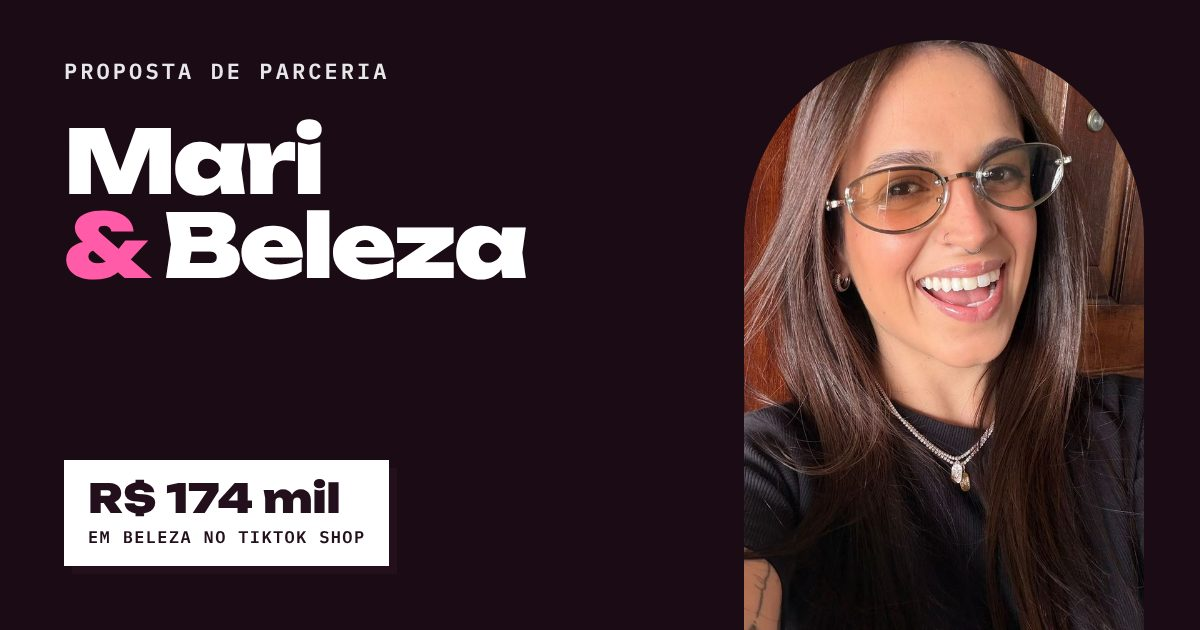
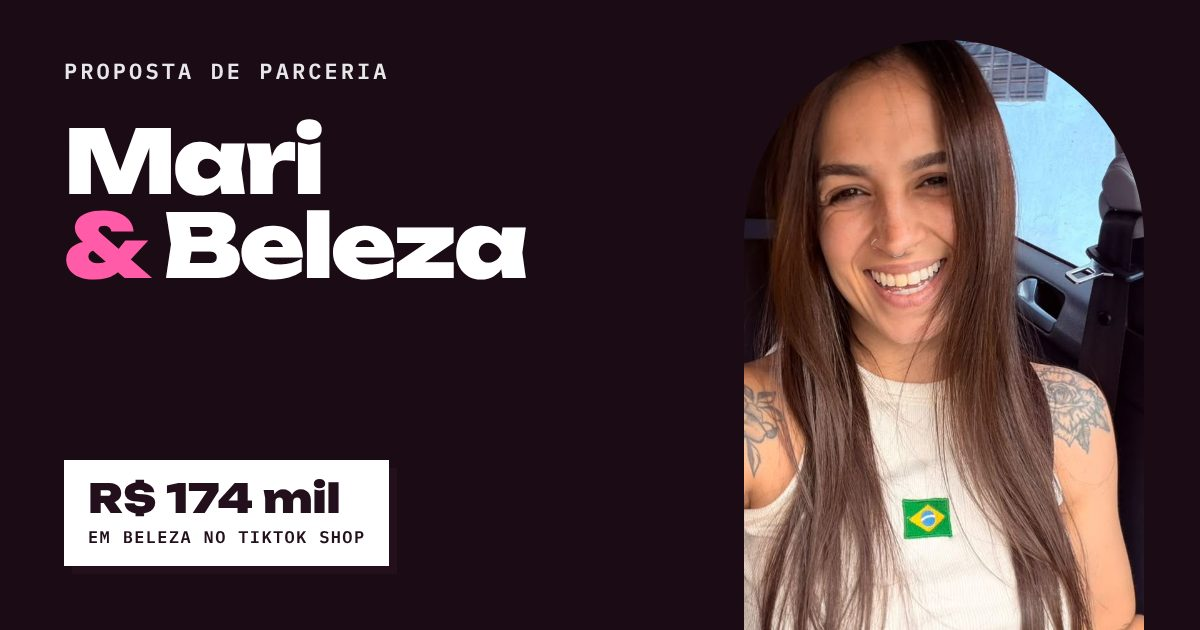
Legendas alinhadas às fotos nas páginas de categoria
Claude-Session: https://claude.ai/code/session_01VE4Bs72BjS1UrKcxBamVdE

Changed region(s): [[0.6167, 0.0603, 0.9558, 1.0]]

diff --git a/beleza/index.html b/beleza/index.html
@@ -67,7 +67,7 @@ section{padding-block:clamp(56px,9vw,104px)}
 .btn.main{background:var(--hero-btn);color:#fff}
 .btn.line{border-color:#fff;color:#fff}
 .hero-photo{position:relative;align-self:stretch;min-height:420px}
-.hero-photo img{position:absolute;inset:0;width:100%;height:100%;object-fit:cover;object-position:50% 30%;border-radius:220px 220px 0 0;display:block}
+.hero-photo img{position:absolute;inset:0;width:100%;height:100%;object-fit:cover;object-position:50% 8%;border-radius:220px 220px 0 0;display:block}
 .motif{position:absolute;left:-80px;right:-80px;top:-34px;bottom:-6px;color:var(--hero-accent);opacity:.4;pointer-events:none;z-index:0}
 .motif svg{width:100%;height:100%;display:block}
 .hero-photo img{z-index:1}
@@ -219,7 +219,7 @@ footer{padding-block:28px;color:var(--muted);font-size:.8rem;line-height:1.6}
 .site-nav a:focus-visible{outline:3px solid #FF5BA8;outline-offset:2px}
 .site-nav .cta{padding:8px 14px;border-radius:999px;background:#E0117A;color:#fff;font-family:"Instrument Sans","Segoe UI",system-ui,sans-serif;font-weight:700;font-size:.88rem;text-decoration:none;white-space:nowrap}
 @media (max-width:640px){.site-nav{position:static}.site-nav .cta{display:none}.site-nav .nav-in{flex-wrap:wrap;justify-content:center;gap:4px;padding-block:10px}.site-nav .nav-brand{width:100%;text-align:center;font-size:.92rem;padding-bottom:4px}.site-nav .links{flex:0 1 auto;flex-wrap:wrap;justify-content:center;overflow:visible;padding-block:0}.site-nav .links a{padding:6px 11px;font-size:.86rem}}
-.badge{top:5%}@media (max-width:560px){.badge{top:4%}}
+.badge{top:3%;left:auto;right:-18px}@media (max-width:560px){.badge{top:4%;left:auto;right:10px}}
 </style>
 <style>html,body{margin:0}img{max-width:100%}</style>
 </head>
@@ -235,7 +235,7 @@ footer{padding-block:28px;color:var(--muted);font-size:.8rem;line-height:1.6}
         <span class="cat-chip">Beleza</span>
         <h1 class="pair">Mari <span class="x">&amp;</span><br>a sua marca</h1>
         <p class="thesis">Beleza testada <b>na frente de todo mundo.</b></p>
-        <p class="hero-note">Leave-in, body splash, modelador: em beleza, a Mari vende o resultado, mostrado no cabelo e na pele dela, sem filtro de propaganda.</p>
+        <p class="hero-note">Cabelo solto, luz do dia, câmera do celular: em beleza, a Mari vende o resultado mostrado nela mesma, sem filtro de propaganda. Leave-in, body splash e modelador estão entre os campeões.</p>
         <div class="hero-cta">
           <a class="btn main" href="https://wa.me/5531996293489?text=Ol%C3%A1%2C%20Mari%21%20Vi%20a%20sua%20proposta%20de%20beleza%20e%20quero%20conversar." target="_blank" rel="noopener">Conversar com a Mari</a>
           <a class="btn line" href="#roteiro">Ver o roteiro do vídeo 1</a>
@@ -243,7 +243,7 @@ footer{padding-block:28px;color:var(--muted);font-size:.8rem;line-height:1.6}
       </div>
       <div class="hero-photo">
         <div class="motif" aria-hidden="true"><svg viewBox="0 0 600 640" preserveAspectRatio="xMidYMid meet"><g fill="currentColor"><circle cx="70" cy="150" r="38"/><circle cx="540" cy="110" r="24"/><circle cx="566" cy="420" r="44"/><circle cx="44" cy="500" r="28"/><circle cx="300" cy="26" r="14"/><circle cx="500" cy="600" r="18"/><circle cx="120" cy="330" r="10"/></g></svg></div>
-        <img src="../foto-oculos.jpg" alt="Selfie da Mari sorrindo, de óculos e cabelo solto e brilhante">
+        <img src="../foto-cabelo.jpg" alt="Selfie da Mari no carro, sorrindo, com o cabelo longo e brilhante">
         <div class="badge" aria-label="R$ 174 mil vendidos em beleza no TikTok Shop"><span><strong>R$ 174 mil</strong>em beleza<br>no TikTok Shop</span></div>
       </div>
     </div>
@@ -295,7 +295,7 @@ footer{padding-block:28px;color:var(--muted);font-size:.8rem;line-height:1.6}
       <h2 class="h2">Antes e depois, sem filtro</h2>
       <p class="lead">Antes de fechar, a sua marca já vê o que vai ao ar. Um vídeo de 45 segundos, segundo a segundo.</p>
       <div class="script-grid">
-        <div class="phone" aria-hidden="true"><img class="ph-img" src="../foto-cabelo.jpg" alt="" style="object-position:50% 35%"><div class="ph-shade"></div><span class="len">0:45</span><p class="cap"><b>Antes e depois, sem filtro</b></p><div class="rail" aria-hidden="true"><span><svg viewBox="0 0 24 24" fill="none" stroke="currentColor" stroke-width="1.8" stroke-linecap="round" stroke-linejoin="round" aria-hidden="true"><path d="M12 20s-7.5-4.6-7.5-10.2A4.2 4.2 0 0 1 12 7.2a4.2 4.2 0 0 1 7.5 2.6C19.5 15.4 12 20 12 20z"/></svg></span><span><svg viewBox="0 0 24 24" fill="none" stroke="currentColor" stroke-width="1.8" stroke-linecap="round" stroke-linejoin="round" aria-hidden="true"><path d="M4 5h16v11H9.5L4 20V5z"/></svg></span><span><svg viewBox="0 0 24 24" fill="none" stroke="currentColor" stroke-width="1.8" stroke-linecap="round" stroke-linejoin="round" aria-hidden="true"><path d="M14 4.5l7 6.5-7 6.5V14c-6 0-9 1.8-11 5 .8-6 4-10 11-10.8V4.5z"/></svg></span></div><div class="meta"><b>@soumaripaiva</b><span>Mesma luz, mesmo celular, sem filtro ✨</span><div class="pcard"><span class="pic"><svg viewBox="0 0 24 24" fill="none" stroke="currentColor" stroke-width="1.8" stroke-linecap="round" stroke-linejoin="round" aria-hidden="true"><rect x="7" y="9.5" width="10" height="11.5" rx="2.2"/><path d="M10 9.5V6.5h4v3M14 5h2.5M18.5 4.5h1.5M18.5 7.5h1.5"/></svg></span><span><b>Seu produto aqui</b><small>Toque para ver no carrinho</small></span></div></div></div>
+        <div class="phone" aria-hidden="true"><img class="ph-img" src="../foto-carro.jpg" alt="" style="object-position:50% 35%"><div class="ph-shade"></div><span class="len">0:45</span><p class="cap"><b>Antes e depois, sem filtro</b></p><div class="rail" aria-hidden="true"><span><svg viewBox="0 0 24 24" fill="none" stroke="currentColor" stroke-width="1.8" stroke-linecap="round" stroke-linejoin="round" aria-hidden="true"><path d="M12 20s-7.5-4.6-7.5-10.2A4.2 4.2 0 0 1 12 7.2a4.2 4.2 0 0 1 7.5 2.6C19.5 15.4 12 20 12 20z"/></svg></span><span><svg viewBox="0 0 24 24" fill="none" stroke="currentColor" stroke-width="1.8" stroke-linecap="round" stroke-linejoin="round" aria-hidden="true"><path d="M4 5h16v11H9.5L4 20V5z"/></svg></span><span><svg viewBox="0 0 24 24" fill="none" stroke="currentColor" stroke-width="1.8" stroke-linecap="round" stroke-linejoin="round" aria-hidden="true"><path d="M14 4.5l7 6.5-7 6.5V14c-6 0-9 1.8-11 5 .8-6 4-10 11-10.8V4.5z"/></svg></span></div><div class="meta"><b>@soumaripaiva</b><span>Luz do carro, câmera do celular, zero filtro ✨</span><div class="pcard"><span class="pic"><svg viewBox="0 0 24 24" fill="none" stroke="currentColor" stroke-width="1.8" stroke-linecap="round" stroke-linejoin="round" aria-hidden="true"><rect x="7" y="9.5" width="10" height="11.5" rx="2.2"/><path d="M10 9.5V6.5h4v3M14 5h2.5M18.5 4.5h1.5M18.5 7.5h1.5"/></svg></span><span><b>Seu produto aqui</b><small>Toque para ver no carrinho</small></span></div></div></div>
         <div>
           <div class="beats"><div class="beat"><span class="t">0:00–0:03<small>Gancho</small></span><div><b>A Mari aponta para o cabelo</b><q>Mesma luz, mesmo celular, sem filtro.</q><p class="scene">Texto na tela. O vídeo já começa no antes.</p></div></div><div class="beat"><span class="t">0:03–0:12<small>Antes</small></span><div><b>O problema de verdade</b><q>Olha como meu cabelo acorda.</q><p class="scene">Close honesto no antes, sem esconder nada.</p></div></div><div class="beat"><span class="t">0:12–0:30<small>Aplicação</small></span><div><b>O produto em uso</b><q>Pouquinho, só nas pontas, e espalho assim.</q><p class="scene">Passo a passo rápido, do jeito que a cliente faria em casa.</p></div></div><div class="beat"><span class="t">0:30–0:40<small>Depois</small></span><div><b>O resultado e a reação</b><q>Gente, olha isso.</q><p class="scene">O depois, na mesma luz, com a reação sincera da Mari.</p></div></div><div class="beat"><span class="t">0:40–0:45<small>Fecho</small></span><div><b>Chamada para o carrinho</b><q>Tá no carrinho aqui embaixo.</q><p class="scene">Produto em destaque e link do TikTok Shop.</p></div></div></div>
           <p class="script-note">Roteiro de referência. A versão final é ajustada com a marca, conforme o produto.</p>

diff --git a/moda/index.html b/moda/index.html
@@ -5,7 +5,7 @@
 <meta name="viewport" content="width=device-width,initial-scale=1,viewport-fit=cover">
 <meta name="robots" content="noindex">
 <meta property="og:title" content="Mari Paiva · Proposta de moda">
-<meta property="og:description" content="Moda que se vende no provador ao vivo.">
+<meta property="og:description" content="Moda que chega, abre e vende ao vivo.">
 <meta property="og:type" content="website">
 <meta property="og:site_name" content="Mari Paiva">
 <meta property="og:locale" content="pt_BR">
@@ -233,8 +233,8 @@ footer{padding-block:28px;color:var(--muted);font-size:.8rem;line-height:1.6}
       <div class="hero-copy">
         <span class="cat-chip">Moda</span>
         <h1 class="pair">Mari <span class="x">&amp;</span><br>a sua marca</h1>
-        <p class="thesis">Moda que se vende <b>no provador ao vivo.</b></p>
-        <p class="hero-note">Bolsa, tênis, calça: em moda, a Mari vende mais quando o público vê a peça no corpo, ao vivo, e pode perguntar tudo antes de comprar.</p>
+        <p class="thesis">Moda que chega, <b>abre e vende ao vivo.</b></p>
+        <p class="hero-note">Os pacotes chegam, a Mari abre, veste e mostra o caimento ao vivo. Em moda, o público compra quando vê a peça no corpo e pode perguntar tudo antes.</p>
         <div class="hero-cta">
           <a class="btn main" href="https://wa.me/5531996293489?text=Ol%C3%A1%2C%20Mari%21%20Vi%20a%20sua%20proposta%20de%20moda%20e%20quero%20conversar." target="_blank" rel="noopener">Conversar com a Mari</a>
           <a class="btn line" href="#roteiro">Ver o roteiro do vídeo 1</a>
@@ -242,7 +242,7 @@ footer{padding-block:28px;color:var(--muted);font-size:.8rem;line-height:1.6}
       </div>
       <div class="hero-photo">
         <div class="motif" aria-hidden="true"><svg viewBox="0 0 600 640" preserveAspectRatio="xMidYMid meet"><g fill="none" stroke="currentColor" stroke-linecap="round"><path d="M66 640V300A234 234 0 0 1 534 300V640" stroke-width="4" stroke-dasharray="14 10"/><path d="M36 640V292A264 264 0 0 1 564 292V640" stroke-width="3" stroke-dasharray="3 12"/></g></svg></div>
-        <img src="../foto-recebidos.jpg" alt="Mari Paiva sorrindo no meio de vários pacotes de produtos recebidos">
+        <img src="../foto-recebidos.jpg" alt="Mari Paiva sorrindo no meio de vários pacotes recebidos, prontos para abrir">
         <div class="badge" aria-label="R$ 183 mil vendidos em moda no TikTok Shop"><span><strong>R$ 183 mil</strong>em moda<br>no TikTok Shop</span></div>
       </div>
     </div>
@@ -294,7 +294,7 @@ footer{padding-block:28px;color:var(--muted);font-size:.8rem;line-height:1.6}
       <h2 class="h2">Uma peça, três looks</h2>
       <p class="lead">Antes de fechar, a sua marca já vê o que vai ao ar. Um vídeo de 45 segundos, segundo a segundo.</p>
       <div class="script-grid">
-        <div class="phone" aria-hidden="true"><img class="ph-img" src="../foto-look.jpg" alt="" style="object-position:50% 40%"><div class="ph-shade"></div><span class="len">0:45</span><p class="cap"><b>Uma peça, três looks</b></p><div class="rail" aria-hidden="true"><span><svg viewBox="0 0 24 24" fill="none" stroke="currentColor" stroke-width="1.8" stroke-linecap="round" stroke-linejoin="round" aria-hidden="true"><path d="M12 20s-7.5-4.6-7.5-10.2A4.2 4.2 0 0 1 12 7.2a4.2 4.2 0 0 1 7.5 2.6C19.5 15.4 12 20 12 20z"/></svg></span><span><svg viewBox="0 0 24 24" fill="none" stroke="currentColor" stroke-width="1.8" stroke-linecap="round" stroke-linejoin="round" aria-hidden="true"><path d="M4 5h16v11H9.5L4 20V5z"/></svg></span><span><svg viewBox="0 0 24 24" fill="none" stroke="currentColor" stroke-width="1.8" stroke-linecap="round" stroke-linejoin="round" aria-hidden="true"><path d="M14 4.5l7 6.5-7 6.5V14c-6 0-9 1.8-11 5 .8-6 4-10 11-10.8V4.5z"/></svg></span></div><div class="meta"><b>@soumaripaiva</b><span>Uma peça só, a semana inteira 👗</span><div class="pcard"><span class="pic"><svg viewBox="0 0 24 24" fill="none" stroke="currentColor" stroke-width="1.8" stroke-linecap="round" stroke-linejoin="round" aria-hidden="true"><path d="M5 8.5h14l-1.2 12H6.2L5 8.5z"/><path d="M9 8.5V6.5a3 3 0 0 1 6 0v2"/></svg></span><span><b>Seu produto aqui</b><small>Toque para ver no carrinho</small></span></div></div></div>
+        <div class="phone" aria-hidden="true"><img class="ph-img" src="../foto-look.jpg" alt="" style="object-position:50% 40%"><div class="ph-shade"></div><span class="len">0:45</span><p class="cap"><b>Uma peça, três looks</b></p><div class="rail" aria-hidden="true"><span><svg viewBox="0 0 24 24" fill="none" stroke="currentColor" stroke-width="1.8" stroke-linecap="round" stroke-linejoin="round" aria-hidden="true"><path d="M12 20s-7.5-4.6-7.5-10.2A4.2 4.2 0 0 1 12 7.2a4.2 4.2 0 0 1 7.5 2.6C19.5 15.4 12 20 12 20z"/></svg></span><span><svg viewBox="0 0 24 24" fill="none" stroke="currentColor" stroke-width="1.8" stroke-linecap="round" stroke-linejoin="round" aria-hidden="true"><path d="M4 5h16v11H9.5L4 20V5z"/></svg></span><span><svg viewBox="0 0 24 24" fill="none" stroke="currentColor" stroke-width="1.8" stroke-linecap="round" stroke-linejoin="round" aria-hidden="true"><path d="M14 4.5l7 6.5-7 6.5V14c-6 0-9 1.8-11 5 .8-6 4-10 11-10.8V4.5z"/></svg></span></div><div class="meta"><b>@soumaripaiva</b><span>Look 1 de 3: jeans, tênis e a peça que fecha tudo 👟</span><div class="pcard"><span class="pic"><svg viewBox="0 0 24 24" fill="none" stroke="currentColor" stroke-width="1.8" stroke-linecap="round" stroke-linejoin="round" aria-hidden="true"><path d="M5 8.5h14l-1.2 12H6.2L5 8.5z"/><path d="M9 8.5V6.5a3 3 0 0 1 6 0v2"/></svg></span><span><b>Seu produto aqui</b><small>Toque para ver no carrinho</small></span></div></div></div>
         <div>
           <div class="beats"><div class="beat"><span class="t">0:00–0:03<small>Gancho</small></span><div><b>A Mari segura a peça na frente da câmera</b><q>Comprei uma peça só e montei a semana inteira.</q><p class="scene">Texto grande na tela. Sem vinheta, sem logo.</p></div></div><div class="beat"><span class="t">0:03–0:15<small>Look 1</small></span><div><b>Para o trabalho</b><q>Segunda-feira, reunião: assim.</q><p class="scene">Transição rápida com a peça vestida, mostrando o caimento.</p></div></div><div class="beat"><span class="t">0:15–0:27<small>Look 2</small></span><div><b>Para o passeio</b><q>Passeio com a família: troquei só o tênis.</q><p class="scene">A mesma peça em outra combinação, em ambiente real.</p></div></div><div class="beat"><span class="t">0:27–0:38<small>Look 3</small></span><div><b>Para o fim de semana</b><q>E no sábado ela ainda vira isso.</q><p class="scene">O look mais surpreendente fica por último.</p></div></div><div class="beat"><span class="t">0:38–0:45<small>Fecho</small></span><div><b>Tamanhos e cores</b><q>Tem em várias cores, tá no carrinho.</q><p class="scene">Close no detalhe da peça e link do TikTok Shop.</p></div></div></div>
           <p class="script-note">Roteiro de referência. A versão final é ajustada com a marca, conforme o produto.</p>

diff --git a/tecnologia/index.html b/tecnologia/index.html
@@ -235,7 +235,7 @@ footer{padding-block:28px;color:var(--muted);font-size:.8rem;line-height:1.6}
         <span class="cat-chip">Tecnologia</span>
         <h1 class="pair">Mari <span class="x">&amp;</span><br>a sua marca</h1>
         <p class="thesis">Tecnologia explicada do jeito que <b>a gente entende e compra.</b></p>
-        <p class="hero-note">Smartwatch, fone, carregador: a Mari transforma ficha técnica em motivo para comprar. É a categoria que ela mais vende no TikTok Shop.</p>
+        <p class="hero-note">Smartwatch, fone, carregador: tecnologia é a categoria que a Mari mais vende no TikTok Shop. Na foto, ela no Matchmaking de Eletrônicos da plataforma, onde marcas e creators da categoria se encontram.</p>
         <div class="hero-cta">
           <a class="btn main" href="https://wa.me/5531996293489?text=Ol%C3%A1%2C%20Mari%21%20Vi%20a%20sua%20proposta%20de%20tecnologia%20e%20quero%20conversar." target="_blank" rel="noopener">Conversar com a Mari</a>
           <a class="btn line" href="#roteiro">Ver o roteiro do vídeo 1</a>
@@ -243,7 +243,7 @@ footer{padding-block:28px;color:var(--muted);font-size:.8rem;line-height:1.6}
       </div>
       <div class="hero-photo">
         <div class="motif" aria-hidden="true"><svg viewBox="0 0 600 640" preserveAspectRatio="xMidYMid meet"><g fill="none" stroke="currentColor"><circle cx="300" cy="330" r="250" stroke-width="3"/><circle cx="300" cy="330" r="285" stroke-width="3" stroke-dasharray="4 12"/><circle cx="300" cy="330" r="318" stroke-width="2"/></g></svg></div>
-        <img src="../foto-evento.jpg" alt="Mari Paiva num evento de eletrônicos do TikTok Shop">
+        <img src="../foto-evento.jpg" alt="Mari Paiva no Matchmaking de Eletrônicos do TikTok Shop, ao lado de fone, smartwatch e liquidificador">
         <div class="badge" aria-label="R$ 767 mil vendidos em tecnologia no TikTok Shop"><span><strong>R$ 767 mil</strong>em tecnologia<br>no TikTok Shop</span></div>
       </div>
     </div>
@@ -295,7 +295,7 @@ footer{padding-block:28px;color:var(--muted);font-size:.8rem;line-height:1.6}
       <h2 class="h2">Isso aqui resolveu meu dia</h2>
       <p class="lead">Antes de fechar, a sua marca já vê o que vai ao ar. Um vídeo de 45 segundos, segundo a segundo.</p>
       <div class="script-grid">
-        <div class="phone" aria-hidden="true"><img class="ph-img" src="../foto-neon.jpg" alt="" style="object-position:50% 40%"><div class="ph-shade"></div><span class="len">0:45</span><p class="cap"><b>Isso aqui resolveu meu dia</b></p><div class="rail" aria-hidden="true"><span><svg viewBox="0 0 24 24" fill="none" stroke="currentColor" stroke-width="1.8" stroke-linecap="round" stroke-linejoin="round" aria-hidden="true"><path d="M12 20s-7.5-4.6-7.5-10.2A4.2 4.2 0 0 1 12 7.2a4.2 4.2 0 0 1 7.5 2.6C19.5 15.4 12 20 12 20z"/></svg></span><span><svg viewBox="0 0 24 24" fill="none" stroke="currentColor" stroke-width="1.8" stroke-linecap="round" stroke-linejoin="round" aria-hidden="true"><path d="M4 5h16v11H9.5L4 20V5z"/></svg></span><span><svg viewBox="0 0 24 24" fill="none" stroke="currentColor" stroke-width="1.8" stroke-linecap="round" stroke-linejoin="round" aria-hidden="true"><path d="M14 4.5l7 6.5-7 6.5V14c-6 0-9 1.8-11 5 .8-6 4-10 11-10.8V4.5z"/></svg></span></div><div class="meta"><b>@soumaripaiva</b><span>O problema que eu nem sabia que tinha 🔋</span><div class="pcard"><span class="pic"><svg viewBox="0 0 24 24" fill="none" stroke="currentColor" stroke-width="1.8" stroke-linecap="round" stroke-linejoin="round" aria-hidden="true"><rect x="6.5" y="6" width="11" height="12" rx="3"/><path d="M9 6l1-3h4l1 3M9 18l1 3h4l1-3M12 9.5V12l1.8 1.2"/></svg></span><span><b>Seu produto aqui</b><small>Toque para ver no carrinho</small></span></div></div></div>
+        <div class="phone" aria-hidden="true"><img class="ph-img" src="../foto-neon.jpg" alt="" style="object-position:50% 40%"><div class="ph-shade"></div><span class="len">0:45</span><p class="cap"><b>Isso aqui resolveu meu dia</b></p><div class="rail" aria-hidden="true"><span><svg viewBox="0 0 24 24" fill="none" stroke="currentColor" stroke-width="1.8" stroke-linecap="round" stroke-linejoin="round" aria-hidden="true"><path d="M12 20s-7.5-4.6-7.5-10.2A4.2 4.2 0 0 1 12 7.2a4.2 4.2 0 0 1 7.5 2.6C19.5 15.4 12 20 12 20z"/></svg></span><span><svg viewBox="0 0 24 24" fill="none" stroke="currentColor" stroke-width="1.8" stroke-linecap="round" stroke-linejoin="round" aria-hidden="true"><path d="M4 5h16v11H9.5L4 20V5z"/></svg></span><span><svg viewBox="0 0 24 24" fill="none" stroke="currentColor" stroke-width="1.8" stroke-linecap="round" stroke-linejoin="round" aria-hidden="true"><path d="M14 4.5l7 6.5-7 6.5V14c-6 0-9 1.8-11 5 .8-6 4-10 11-10.8V4.5z"/></svg></span></div><div class="meta"><b>@soumaripaiva</b><span>Gravado no evento, com a bateria no fim 🔋</span><div class="pcard"><span class="pic"><svg viewBox="0 0 24 24" fill="none" stroke="currentColor" stroke-width="1.8" stroke-linecap="round" stroke-linejoin="round" aria-hidden="true"><rect x="6.5" y="6" width="11" height="12" rx="3"/><path d="M9 6l1-3h4l1 3M9 18l1 3h4l1-3M12 9.5V12l1.8 1.2"/></svg></span><span><b>Seu produto aqui</b><small>Toque para ver no carrinho</small></span></div></div></div>
         <div>
           <div class="beats"><div class="beat"><span class="t">0:00–0:03<small>Gancho</small></span><div><b>O produto aparece na mão da Mari</b><q>Isso aqui resolveu um problema que eu nem sabia que tinha.</q><p class="scene">Close no produto, sem vinheta e sem logo. O vídeo já começa no momento.</p></div></div><div class="beat"><span class="t">0:03–0:12<small>Problema</small></span><div><b>A situação real</b><q>Sabe quando o celular morre no meio do dia?</q><p class="scene">Cena rápida do problema acontecendo na rotina dela.</p></div></div><div class="beat"><span class="t">0:12–0:30<small>Demonstração</small></span><div><b>O produto em ação</b><q>Olha como funciona: é só isso.</q><p class="scene">A função principal mostrada no uso real, com close no que importa.</p></div></div><div class="beat"><span class="t">0:30–0:40<small>Prova</small></span><div><b>Depois de uns dias usando</b><q>Tô usando faz uma semana e não largo mais.</q><p class="scene">O detalhe que convence: duração, conforto ou praticidade.</p></div></div><div class="beat"><span class="t">0:40–0:45<small>Fecho</small></span><div><b>Chamada para o carrinho</b><q>Tá no carrinho aqui embaixo.</q><p class="scene">Produto em destaque e o link do TikTok Shop.</p></div></div></div>
           <p class="script-note">Roteiro de referência. A versão final é ajustada com a marca, conforme o produto.</p>

diff --git a/casa/index.html b/casa/index.html
@@ -234,7 +234,7 @@ footer{padding-block:28px;color:var(--muted);font-size:.8rem;line-height:1.6}
         <span class="cat-chip">Casa</span>
         <h1 class="pair">Mari <span class="x">&amp;</span><br>a sua marca</h1>
         <p class="thesis">O achado que resolve a casa <b>vira desejo de todo mundo.</b></p>
-        <p class="hero-note">Mangueira, guarda-chuva, toalha: em casa e utilidades, a Mari mostra o problema de verdade e o produto resolvendo. O público compra a solução.</p>
+        <p class="hero-note">Cozinha, quintal, banheiro: em casa e utilidades, a Mari mostra o problema de verdade e o produto resolvendo. Foi assim que uma simples mangueira virou campeã de vendas.</p>
         <div class="hero-cta">
           <a class="btn main" href="https://wa.me/5531996293489?text=Ol%C3%A1%2C%20Mari%21%20Vi%20a%20sua%20proposta%20de%20casa%20e%20quero%20conversar." target="_blank" rel="noopener">Conversar com a Mari</a>
           <a class="btn line" href="#roteiro">Ver o roteiro do vídeo 1</a>
@@ -242,7 +242,7 @@ footer{padding-block:28px;color:var(--muted);font-size:.8rem;line-height:1.6}
       </div>
       <div class="hero-photo">
         <div class="motif" aria-hidden="true"><style>.motif{top:-150px;bottom:90px;left:-60px;right:-60px}@media (max-width:900px){.motif{top:-24px;bottom:190px}}</style><svg viewBox="0 0 600 640" preserveAspectRatio="xMidYMid meet"><g fill="none" stroke="currentColor" stroke-width="14" stroke-linejoin="round" stroke-linecap="round"><path d="M16 250L300 26L584 250"/><path d="M444 138V64H486V172"/></g></svg></div>
-        <img src="../foto-liquidificador.jpg" alt="Selfie da Mari acenando ao lado da imagem de um liquidificador">
+        <img src="../foto-liquidificador.jpg" alt="Mari Paiva empolgada ao lado de um liquidificador gigante num painel de eletroportáteis">
         <div class="badge" aria-label="R$ 82 mil vendidos em casa e utilidades no TikTok Shop"><span><strong>R$ 82 mil</strong>em casa<br>no TikTok Shop</span></div>
       </div>
     </div>
@@ -294,7 +294,7 @@ footer{padding-block:28px;color:var(--muted);font-size:.8rem;line-height:1.6}
       <h2 class="h2">Isso aqui me salvou no fim de semana</h2>
       <p class="lead">Antes de fechar, a sua marca já vê o que vai ao ar. Um vídeo de 45 segundos, segundo a segundo.</p>
       <div class="script-grid">
-        <div class="phone" aria-hidden="true"><img class="ph-img" src="../foto-sofa.jpg" alt="" style="object-position:50% 50%"><div class="ph-shade"></div><span class="len">0:45</span><p class="cap"><b>Isso aqui me salvou no fim de semana</b></p><div class="rail" aria-hidden="true"><span><svg viewBox="0 0 24 24" fill="none" stroke="currentColor" stroke-width="1.8" stroke-linecap="round" stroke-linejoin="round" aria-hidden="true"><path d="M12 20s-7.5-4.6-7.5-10.2A4.2 4.2 0 0 1 12 7.2a4.2 4.2 0 0 1 7.5 2.6C19.5 15.4 12 20 12 20z"/></svg></span><span><svg viewBox="0 0 24 24" fill="none" stroke="currentColor" stroke-width="1.8" stroke-linecap="round" stroke-linejoin="round" aria-hidden="true"><path d="M4 5h16v11H9.5L4 20V5z"/></svg></span><span><svg viewBox="0 0 24 24" fill="none" stroke="currentColor" stroke-width="1.8" stroke-linecap="round" stroke-linejoin="round" aria-hidden="true"><path d="M14 4.5l7 6.5-7 6.5V14c-6 0-9 1.8-11 5 .8-6 4-10 11-10.8V4.5z"/></svg></span></div><div class="meta"><b>@soumaripaiva</b><span>O achado que resolveu a casa 🏠</span><div class="pcard"><span class="pic"><svg viewBox="0 0 24 24" fill="none" stroke="currentColor" stroke-width="1.8" stroke-linecap="round" stroke-linejoin="round" aria-hidden="true"><path d="M3 11.5l9-7.5 9 7.5"/><path d="M5.5 10v10.5h13V10"/><path d="M10 20.5v-5.5h4v5.5"/></svg></span><span><b>Seu produto aqui</b><small>Toque para ver no carrinho</small></span></div></div></div>
+        <div class="phone" aria-hidden="true"><img class="ph-img" src="../foto-oculos.jpg" alt="" style="object-position:50% 30%"><div class="ph-shade"></div><span class="len">0:45</span><p class="cap"><b>Isso aqui me salvou no fim de semana</b></p><div class="rail" aria-hidden="true"><span><svg viewBox="0 0 24 24" fill="none" stroke="currentColor" stroke-width="1.8" stroke-linecap="round" stroke-linejoin="round" aria-hidden="true"><path d="M12 20s-7.5-4.6-7.5-10.2A4.2 4.2 0 0 1 12 7.2a4.2 4.2 0 0 1 7.5 2.6C19.5 15.4 12 20 12 20z"/></svg></span><span><svg viewBox="0 0 24 24" fill="none" stroke="currentColor" stroke-width="1.8" stroke-linecap="round" stroke-linejoin="round" aria-hidden="true"><path d="M4 5h16v11H9.5L4 20V5z"/></svg></span><span><svg viewBox="0 0 24 24" fill="none" stroke="currentColor" stroke-width="1.8" stroke-linecap="round" stroke-linejoin="round" aria-hidden="true"><path d="M14 4.5l7 6.5-7 6.5V14c-6 0-9 1.8-11 5 .8-6 4-10 11-10.8V4.5z"/></svg></span></div><div class="meta"><b>@soumaripaiva</b><span>Testado aqui em casa, na vida real 🏠</span><div class="pcard"><span class="pic"><svg viewBox="0 0 24 24" fill="none" stroke="currentColor" stroke-width="1.8" stroke-linecap="round" stroke-linejoin="round" aria-hidden="true"><path d="M3 11.5l9-7.5 9 7.5"/><path d="M5.5 10v10.5h13V10"/><path d="M10 20.5v-5.5h4v5.5"/></svg></span><span><b>Seu produto aqui</b><small>Toque para ver no carrinho</small></span></div></div></div>
         <div>
           <div class="beats"><div class="beat"><span class="t">0:00–0:03<small>Gancho</small></span><div><b>O problema na tela</b><q>Isso aqui me salvou no fim de semana.</q><p class="scene">A bagunça ou a dificuldade aparece logo de cara. Sem vinheta.</p></div></div><div class="beat"><span class="t">0:03–0:12<small>O jeito antigo</small></span><div><b>Como era antes</b><q>Antes eu fazia assim, e era um sofrimento.</q><p class="scene">Cena rápida e bem-humorada do jeito difícil.</p></div></div><div class="beat"><span class="t">0:12–0:30<small>A solução</small></span><div><b>O produto resolvendo</b><q>Agora olha: pronto.</q><p class="scene">O produto em ação, com close no resultado.</p></div></div><div class="beat"><span class="t">0:30–0:40<small>Detalhe</small></span><div><b>O que convence</b><q>E ainda guarda em qualquer canto.</q><p class="scene">O detalhe prático que tira a última dúvida.</p></div></div><div class="beat"><span class="t">0:40–0:45<small>Fecho</small></span><div><b>Chamada para o carrinho</b><q>Tá no carrinho aqui embaixo.</q><p class="scene">Produto em destaque e link do TikTok Shop.</p></div></div></div>
           <p class="script-note">Roteiro de referência. A versão final é ajustada com a marca, conforme o produto.</p>
